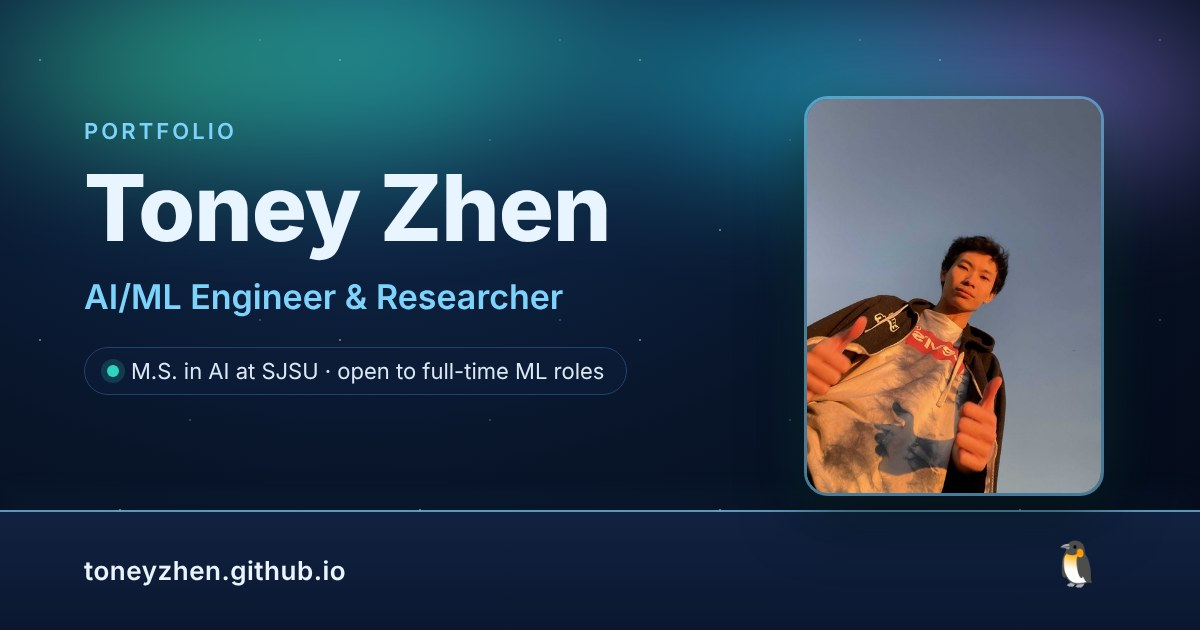
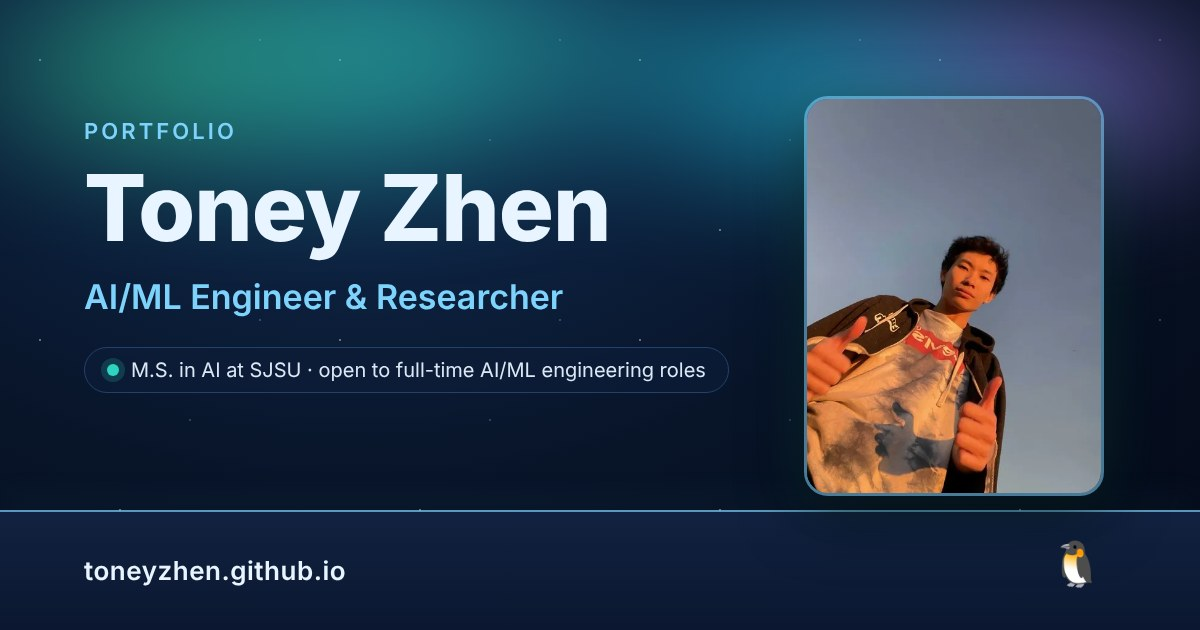
Fix audit findings 1-4 (second pass)
- Test that the Goodreads sync keeps imported page counts, dates, notes and
  the Psycho-Cybernetics rename; the workflow runs it before fetching
- Remove styles that only undid other styles (strip cards, project links)
- Update outdated text: the empty-shelf message, the sync script's notes,
  and the link preview image and its description
- Merge the split project card and content rules

Claude-Session: https://claude.ai/code/session_01Pg44SP7NJTpWWP1LSeSn6U

Changed region(s): [[0.0925, 0.573, 0.5858, 0.6333]]

diff --git a/index.html b/index.html
@@ -11,10 +11,10 @@
     <meta property="og:url" content="https://toneyzhen.github.io/">
     <meta property="og:title" content="Toney Zhen | AI/ML Engineer &amp; Researcher">
     <meta property="og:description" content="M.S. in AI at SJSU, open to full-time AI/ML engineering roles. Deepfake detection, LLM safety guardrails and research in computer vision.">
-    <meta property="og:image" content="https://toneyzhen.github.io/images/og-card.jpg">
+    <meta property="og:image" content="https://toneyzhen.github.io/images/og-card.jpg?v=2">
     <meta property="og:image:width" content="1200">
     <meta property="og:image:height" content="630">
-    <meta property="og:image:alt" content="Toney Zhen, AI/ML Engineer and Researcher, M.S. in AI at SJSU, open to full-time ML roles">
+    <meta property="og:image:alt" content="Toney Zhen, AI/ML Engineer and Researcher, M.S. in AI at SJSU, open to full-time AI/ML engineering roles">
     <meta name="twitter:card" content="summary_large_image">
     <link rel="icon" href="favicon.ico" sizes="any">
     <link rel="icon" href="favicon.svg" type="image/svg+xml">
@@ -313,7 +313,7 @@
                         <span class="log-meta" id="shelfMeta">Synced from Goodreads</span>
                     </div>
                     <div class="shelf" id="shelf" aria-label="Books I've read and am reading">
-                        <p class="log-empty" id="shelfEmpty">My shelf syncs from Goodreads once a day. Books will show up here after the next sync.</p>
+                        <p class="log-empty" id="shelfEmpty">Books will show up here once the shelf is updated.</p>
                     </div>
                     <div class="shelf-ledge" aria-hidden="true"></div>
                     <p class="log-hint shelf-foot">
@@ -366,13 +366,13 @@
 
 
                 <div class="log-strips">
-                <article class="log-card log-card-wide token-card" id="ghCard" hidden>
+                <article class="log-card token-card" id="ghCard" hidden>
                     <h3>GitHub</h3>
                     <p class="token-total"><strong id="ghTotal"></strong> contributions in the past year</p>
                     <a class="log-meta" href="https://github.com/toneyzhen" target="_blank" rel="noopener">@toneyzhen</a>
                 </article>
 
-                <article class="log-card log-card-wide token-card" id="tokenCard" hidden>
+                <article class="log-card token-card" id="tokenCard" hidden>
                     <h3>Building with AI</h3>
                     <p class="token-total"><strong id="tokenTotal"></strong> Claude tokens used in the past month</p>
                     <span class="log-meta" id="tokenMeta"></span>

diff --git a/style.css b/style.css
@@ -318,6 +318,8 @@ h2 {
     transition: transform 0.3s, box-shadow 0.3s;
     border: 3px solid var(--ice-border);
     height: 100%;
+    display: flex;
+    flex-direction: column;
 }
 
 .project-card:hover {
@@ -351,22 +353,14 @@ h2 {
 
 .project-content {
     padding: 18px 22px 20px;
+    flex: 1;
+    display: flex;
+    flex-direction: column;
 }
 
 .project-content h3 {
     margin-bottom: 8px;
     color: var(--accent);
-}
-
-.project-card {
-    display: flex;
-    flex-direction: column;
-}
-
-.project-content {
-    flex: 1;
-    display: flex;
-    flex-direction: column;
 }
 
 .project-content .project-tags {
@@ -427,8 +421,6 @@ h2 {
 .project-actions .project-link {
     grid-column: 2;
     grid-row: 1;
-    margin-top: 0;
-    padding-top: 4px;
     position: relative;
 }
 
@@ -491,9 +483,7 @@ h2 {
 }
 
 .project-link {
-    align-self: flex-start;
-    margin-top: auto;
-    padding-top: 10px;
+    padding-top: 4px;
     color: var(--accent);
     font-weight: 600;
     font-size: 14px;
@@ -2187,12 +2177,7 @@ a.log-meta:hover {
     }
 }
 
-/* ---------- Building with AI: tokens in the past month ---------- */
-.log-card-wide {
-    grid-column: 1 / -1;
-}
-
-/* GitHub and Building with AI side by side, one per row on narrow screens */
+/* ---------- GitHub and Building with AI: side by side, one per row on narrow screens ---------- */
 .log-strips {
     grid-column: 1 / -1;
     display: grid;
@@ -2204,37 +2189,17 @@ a.log-meta:hover {
     display: none;
 }
 
-.log-strips .token-card {
-    display: grid;
-    grid-template-columns: 1fr auto;
-    align-items: baseline;
-    gap: 2px 12px;
-}
-
-.log-strips .log-card-wide {
-    grid-column: auto;
-}
-
-.log-strips .token-card .log-meta {
-    grid-column: 2;
-    grid-row: 1;
-    margin-left: 0;
-}
-
-.log-strips .token-total {
-    grid-column: 1 / -1;
-    grid-row: 2;
-}
 
 .log-card[hidden] {
     display: none;
 }
 
+/* title and label on one row, the number below */
 .token-card {
-    flex-direction: row;
-    flex-wrap: wrap;
+    display: grid;
+    grid-template-columns: 1fr auto;
     align-items: baseline;
-    gap: 6px 20px;
+    gap: 2px 12px;
     padding: 16px 22px;
 }
 
@@ -2244,6 +2209,8 @@ a.log-meta:hover {
 }
 
 .token-total {
+    grid-column: 1 / -1;
+    grid-row: 2;
     color: var(--muted);
     font-size: 15px;
 }
@@ -2257,7 +2224,8 @@ a.log-meta:hover {
 }
 
 .token-card .log-meta {
-    margin-left: auto;
+    grid-column: 2;
+    grid-row: 1;
 }
 
 /* The hero's 100px side padding left phones only ~120px for content */

diff --git a/scripts/test_fetch_goodreads.py b/scripts/test_fetch_goodreads.py
@@ -1,0 +1,55 @@
+"""Checks that the Goodreads sync never wipes what the export import added.
+
+The sync commits its result straight to main, so this runs first in the workflow.
+No network: the widget's answer is faked.
+
+Run: python3 -m unittest discover -s scripts -p "test_*.py"
+"""
+
+import json
+import os
+import sys
+import tempfile
+import unittest
+from unittest import mock
+
+sys.path.insert(0, os.path.dirname(__file__))
+import fetch_goodreads  # noqa: E402
+
+REPO = os.path.dirname(os.path.dirname(os.path.abspath(__file__)))
+
+
+def book(title, **fields):
+    return {"title": title, "author": "Maxwell Maltz", "cover": None, "rating": 0,
+            "pages": None, "readAt": None, "review": "", "url": None, **fields}
+
+
+class KeepsImportedDetails(unittest.TestCase):
+    def test_widget_run_keeps_pages_dates_notes_and_rename(self):
+        saved = {"updated": "2026-11-01", "currentlyReading": [], "read": [
+            book("Psycho-Cybernetics", pages=256, readAt="2026-05-02", review="Long notes from the export"),
+        ]}
+        # what the widget gives: its own spelling, no pages or date, a cut-down note
+        widget = [book("Psychocybernetics", review="Long")]
+
+        with tempfile.TemporaryDirectory() as tmp:
+            path = os.path.join(tmp, "books.json")
+            with open(path, "w", encoding="utf-8") as f:
+                json.dump(saved, f)
+            shelves = {"read": widget, "currently-reading": []}
+            with mock.patch.object(fetch_goodreads, "fetch_shelf", lambda user, shelf: shelves[shelf]), \
+                 mock.patch.object(fetch_goodreads, "OVERRIDES", os.path.join(REPO, "data", "book-overrides.json")), \
+                 mock.patch.object(sys, "argv", ["fetch_goodreads.py", "1", path]), \
+                 mock.patch("builtins.print"):
+                fetch_goodreads.main()
+            with open(path, encoding="utf-8") as f:
+                result = json.load(f)["read"][0]
+
+        self.assertEqual(result["title"], "Psycho-Cybernetics")
+        self.assertEqual(result["pages"], 256)
+        self.assertEqual(result["readAt"], "2026-05-02")
+        self.assertEqual(result["review"], "Long notes from the export")
+
+
+if __name__ == "__main__":
+    unittest.main()

diff --git a/scripts/fetch_goodreads.py b/scripts/fetch_goodreads.py
@@ -7,7 +7,7 @@ signing in, so this script reads that. It has titles, authors, covers, links
 and star ratings, but no read dates or page counts.
 
 Browsers can't fetch it from the site directly, so a GitHub Action runs this
-once a day and commits the result.
+when started from the Actions tab and commits the result.
 
 Usage: python3 scripts/fetch_goodreads.py <goodreads-user-id> <output.json>
 """
